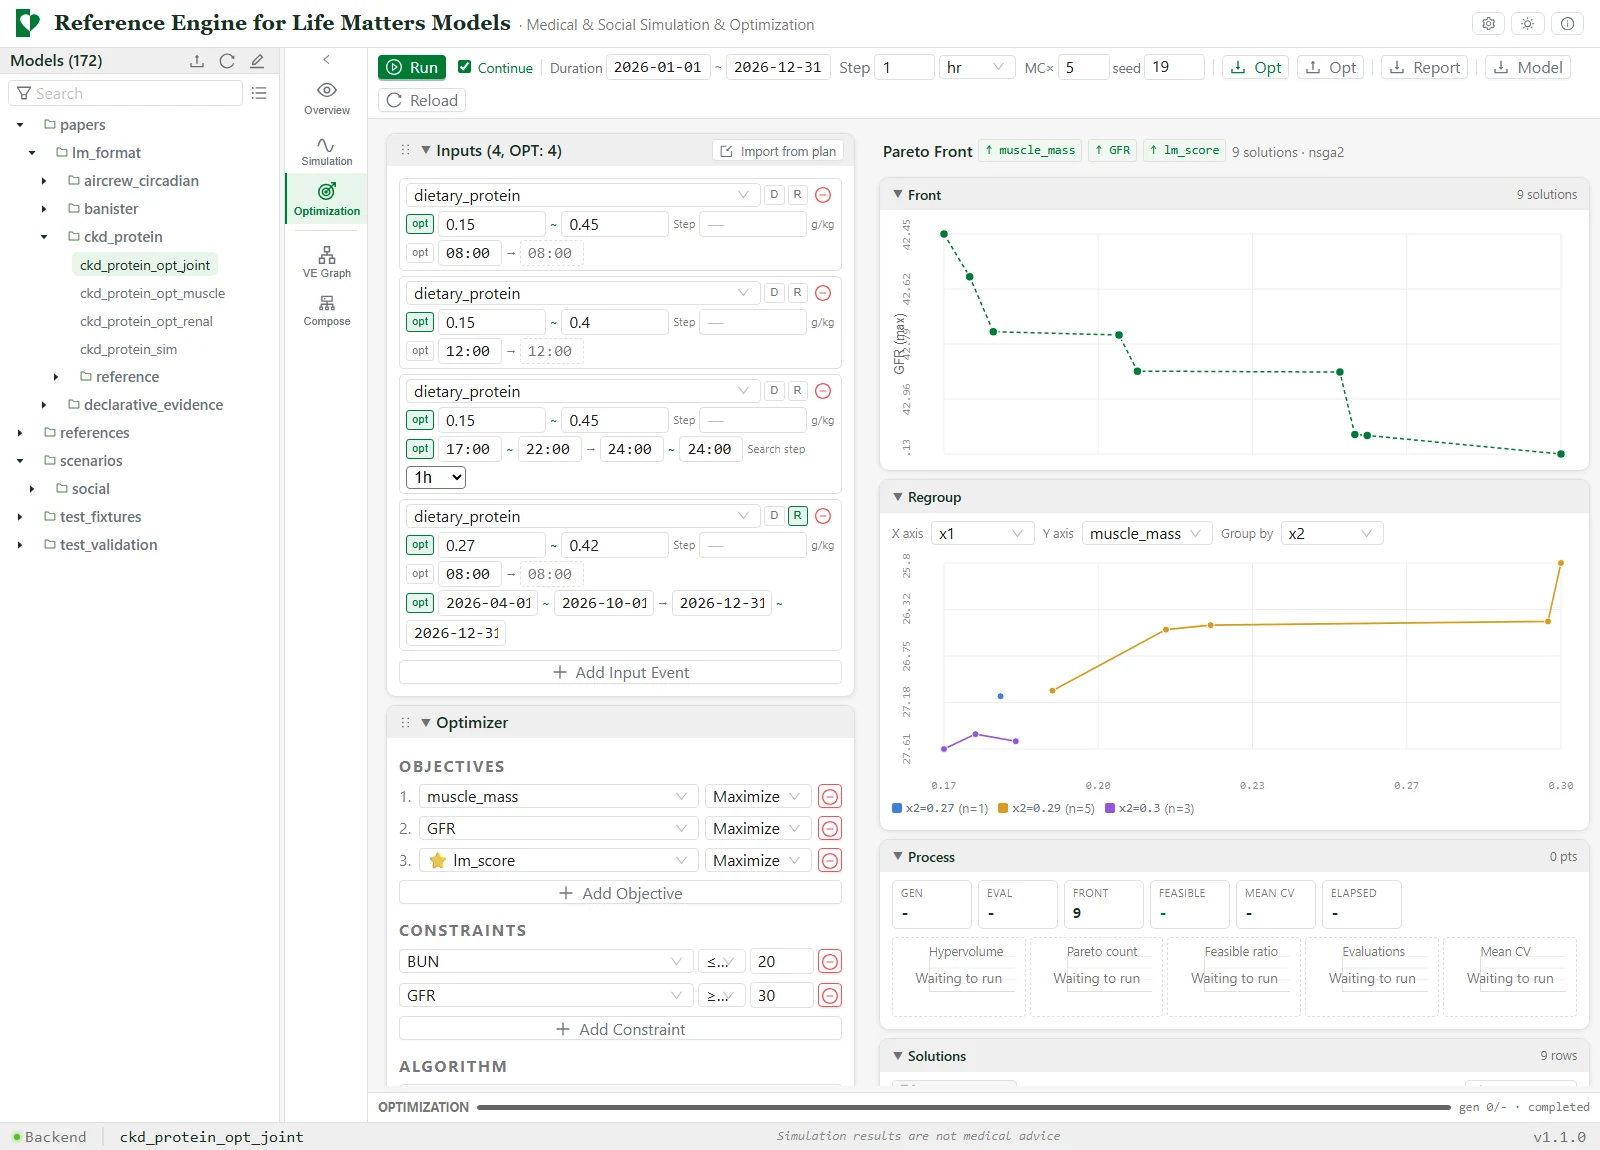
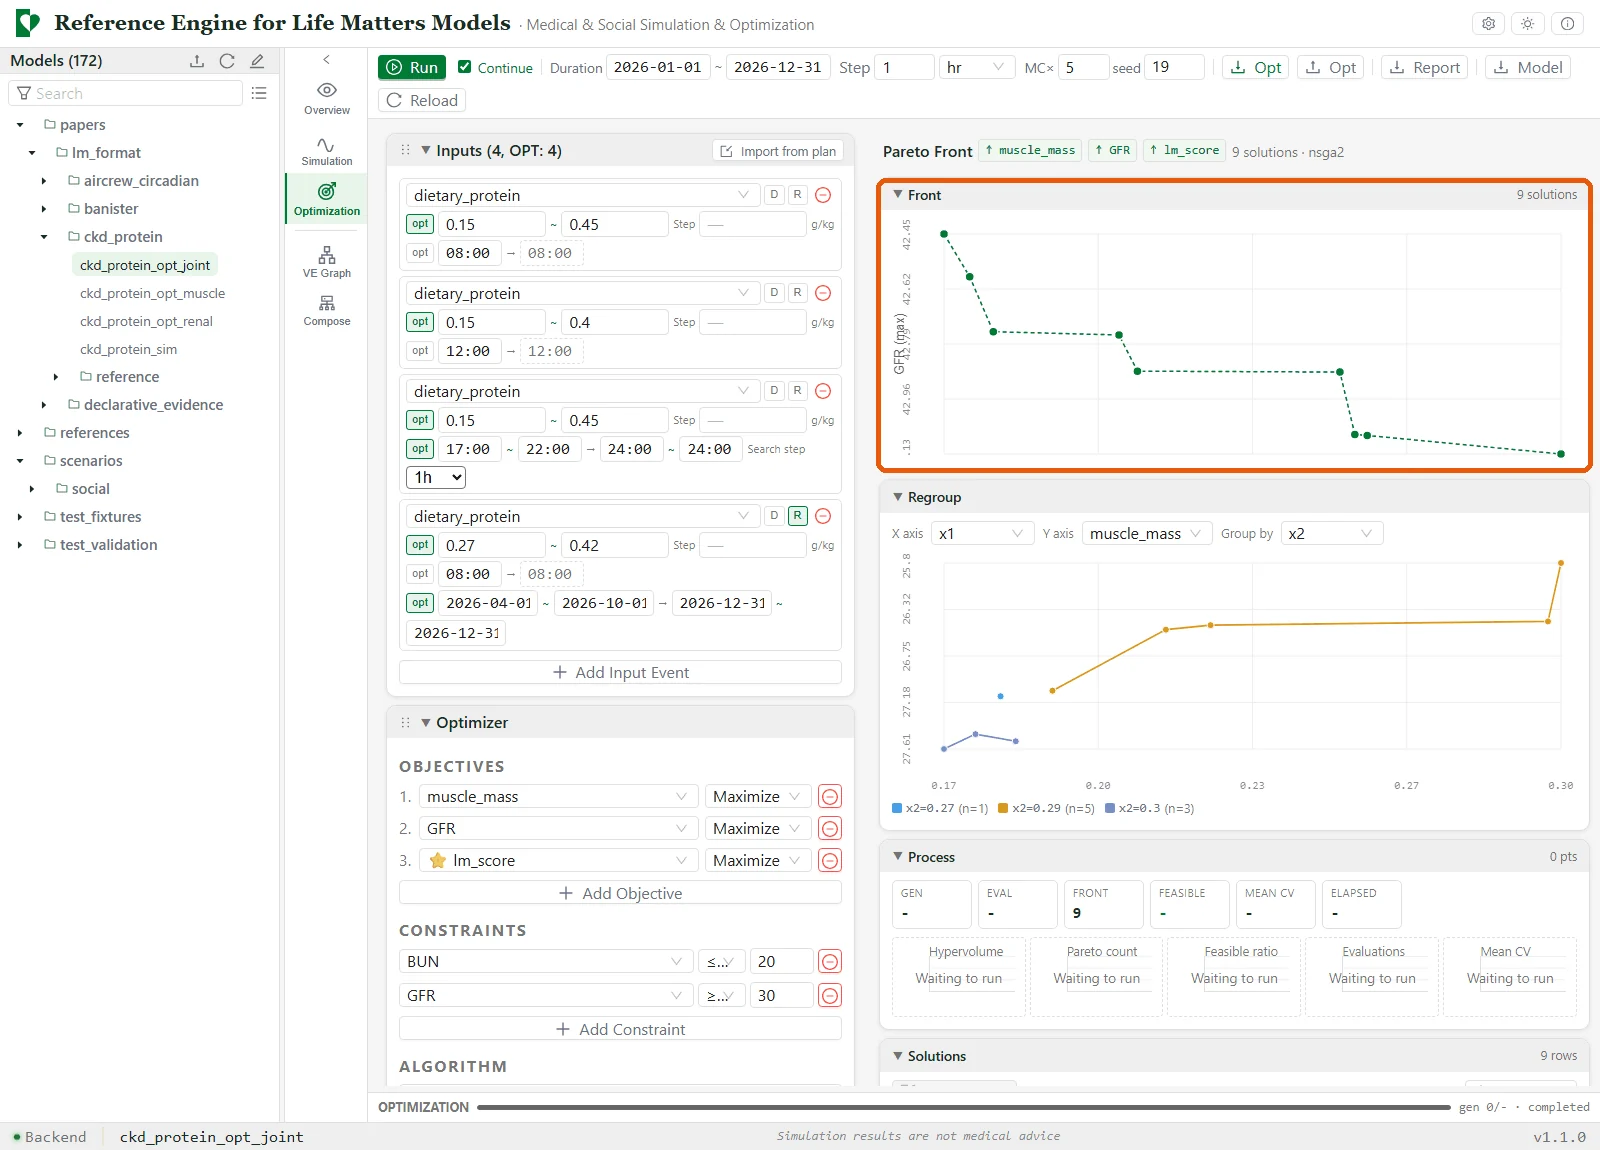
Life Matters page: captions say what a picture is for, overlapping pictures merged, key pictures boxed

Changed region(s): [[0.5312, 0.1522, 1.0, 0.4261]]

diff --git a/life-matters/index.html b/life-matters/index.html
@@ -88,13 +88,13 @@
   <a href="#example">An example</a>
   <a href="#read-run">Read and run</a>
   <a href="#optimize">Optimize</a>
-  <a href="#build">Build and compose</a>
+  <a href="#build">Find, build and compose</a>
   <a href="#motion">In motion</a>
   <a href="#together">How it fits together</a>
   <a href="#status">Status</a>
 </nav>
 
-<p>Published findings about health and behavior rarely become something that can be run, compared or combined. Life Matters (LM) is an attempt to change that. A model is a plain YAML file that states its variables, equations, a simulation setup and, optionally, an optimization problem, and each parameter records the study it came from, or is marked as lacking one. The Reference Engine runs the models, searches for good regimens across several objectives, and lets models from different fields work together in one simulation.</p>
+<p>Published findings about health and behavior rarely become something that can be run, compared or combined, and as they spread they tend to lose the dose, population and duration they were found under. Life Matters (LM) is an attempt to let findings travel together with the conditions under which they hold. A model is a plain YAML file that states its variables, equations, a simulation setup and, optionally, an optimization problem, and each parameter records the study it came from, or is marked as lacking one. The Reference Engine runs the models, searches for good regimens across several objectives, and lets models from different fields work together in one simulation. Every number traces to its source, so each step can be checked.</p>
 
 <p class="note">LM is an aid for analysis. It shows what a set of published findings implies and how they can be put to work together. It does not give medical advice. Review of the models is still limited in coverage, and the models shown here serve as demonstrations of the interface.</p>
 
@@ -105,64 +105,54 @@
 <h2 id="read-run">Read and run</h2>
 
 <figure>
-  <a href="img/overview.webp"><img src="img/overview.webp" alt="The model library on the left and the description page of a CKD model: problem, method, result and limitations." width="1600" height="900" loading="lazy"></a>
-  <figcaption><b>Read a model.</b> The library holds more than a hundred models across medicine, fitness, nutrition and psychology. A model page states the problem, the method, the result and the limitations, together with the review status of the model.</figcaption>
+  <a href="img/overview.webp"><img src="img/overview.webp" alt="The model library on the left and the description page of a CKD model: problem, method, result and limitations, with the review mark boxed." width="1600" height="900" loading="lazy"></a>
+  <figcaption><b>Read a model.</b> Each model is a runnable paper: the problem, the method, the result and the limits on one page, with how far it has been reviewed in plain view.</figcaption>
 </figure>
 
 <figure>
-  <a href="img/inside-model.webp"><img src="img/inside-model.webp" alt="The overview page of the CKD model with its variable table and equation table." width="1600" height="1330" loading="lazy"></a>
-  <figcaption><b>Look inside.</b> The variable table gives each variable a type, an initial value, a unit and a source, and the equation table gives each update as a plain expression with its source. Each parameter carries its source, or a TODO:SOURCE mark where it has none.</figcaption>
-</figure>
-
-<figure>
-  <a href="img/references.webp"><img src="img/references.webp" alt="The references section of the CKD model, each study beside a note on what it supports." width="1600" height="1100" loading="lazy"></a>
-  <figcaption><b>Every source is accounted for.</b> The references section lists each study beside a note on what it supports, which parameter it calibrates, and where the model does not follow it. A parameter with no source is marked TODO:SOURCE and not left blank, and a replaced citation keeps the reason for the change. This is what makes a model checkable by someone who knows the field.</figcaption>
+  <a href="img/references.webp"><img src="img/references.webp" alt="The references section of the CKD model, each study beside a note on what it supports, with two entries boxed." width="1600" height="1100" loading="lazy"></a>
+  <figcaption><b>Every number can be checked.</b> Each parameter points to the study it came from, and where there is none it is marked, not left blank. A reader who knows the field can check the model without guessing.</figcaption>
 </figure>
 
 <figure>
   <a href="img/simulation.webp"><img src="img/simulation.webp" alt="Three training plans compared on fitness, fatigue and performance curves." width="1600" height="900" loading="lazy"></a>
-  <figcaption><b>Run a plan.</b> Inputs are scheduled in time, several plans run side by side, and Monte Carlo repeats give a sense of uncertainty. Here a fitness and fatigue model compares a baseline plan, a maintenance plan and a high load plan with no rest day.</figcaption>
+  <figcaption><b>See the consequences.</b> A plan becomes a curve over time, with several plans side by side and the uncertainty shown, so a finding stated as an effect size turns into something you can look at.</figcaption>
 </figure>
 
 <h2 id="optimize">Optimize</h2>
 
-<p>This is the core of the engine. A model can carry an optimization problem next to its simulation: which inputs may be adjusted and within what range, which outcomes to pursue, and which limits must hold. The engine searches for regimens that balance the objectives and returns the whole set of trade-offs.</p>
+<p>Most hard choices in life are not a search for one best answer but several goals pulling against each other. LM writes the pull as a structure that runs, shows what it costs to favor one goal over another, and leaves the order to the person who chooses.</p>
 
 <figure>
-  <a href="img/optimization-setup.webp"><img src="img/optimization-setup.webp" alt="The optimizer setup of the CKD model: decision variables with ranges, three objectives, two constraints and the Pareto front." width="1600" height="1150" loading="lazy"></a>
-  <figcaption><b>State the problem.</b> The CKD model searches the protein intake of each meal within a range, pursues muscle mass, kidney function and a composite score together, and holds blood urea nitrogen and kidney function within limits.</figcaption>
-</figure>
-
-<figure>
-  <a href="img/optimization.webp"><img src="img/optimization.webp" alt="A Pareto front over kidney function and muscle mass for the CKD model." width="1600" height="900" loading="lazy"></a>
-  <figcaption><b>See the trade-off.</b> With several objectives, the result is a Pareto front rather than a single answer. Each point is a regimen that can be inspected and sent back to the simulation, and the regrouping panel changes the axes and the grouping to show how one decision variable shifts the balance.</figcaption>
+  <a href="img/optimization-setup.webp"><img src="img/optimization-setup.webp" alt="The optimizer setup of the CKD model, with the Pareto front boxed." width="1600" height="1150" loading="lazy"></a>
+  <figcaption><b>State the problem, see the trade-off.</b> What can be adjusted, what to pursue and which limits must hold go in, and a whole front of trade-offs comes out rather than a single answer. In the CKD model, protein intake pulls kidney function and muscle mass in different directions.</figcaption>
 </figure>
 
 <figure>
   <a href="img/optimization-plans.webp"><img src="img/optimization-plans.webp" alt="Six plans of the CKD model compared on kidney function, muscle mass and blood urea nitrogen." width="1600" height="1150" loading="lazy"></a>
-  <figcaption><b>Compare with clinical practice.</b> Plans taken from the front go back into the full model, run for a year in hourly steps, and appear next to clinical-style plans. Here three clinical plans are compared with three optimized ones, and the thin lines are Monte Carlo repeats.</figcaption>
+  <figcaption><b>Compare with clinical practice.</b> Plans from the front run beside clinical-style plans on the same curves, so a discussion has a shared picture.</figcaption>
 </figure>
 
-<h2 id="build">Build, inspect and compose</h2>
+<h2 id="build">Find, build and compose</h2>
 
 <figure>
-  <a href="img/builder.webp"><img src="img/builder.webp" alt="The model library editor with the variables of the CKD model." width="1600" height="900" loading="lazy"></a>
-  <figcaption><b>Build a model.</b> The editor shows a model in sections, with its variables, equations and simulation settings, and can validate the file. The online demo is read only, and editing is available in the local version.</figcaption>
-</figure>
-
-<figure>
-  <a href="img/ve-graph.webp"><img src="img/ve-graph.webp" alt="A graph of the variables and equations of the CKD model." width="1600" height="900" loading="lazy"></a>
-  <figcaption><b>See the structure.</b> Variables are circles and equations are squares. An arrow runs from each input to the equation that reads it and from the equation to the variable it updates. Nodes can be dragged and the layout can be switched to a layered view. In the CKD model, four mechanisms share one set of decision variables.</figcaption>
+  <a href="img/body-map.webp"><img src="img/body-map.webp" alt="A paper-doll body with the organs and everyday inputs that twelve ticked models act on, and the model tree filtered to them." width="1600" height="900" loading="lazy"></a>
+  <figcaption><b>Find what is there.</b> Start from an organ or a part of everyday life and see which models in the library point to it. It answers what the library holds, not what the outcome would be.</figcaption>
 </figure>
 
 <figure>
-  <a href="img/compose-coupling.webp"><img src="img/compose-coupling.webp" alt="Three models joined through the variables they share." width="1600" height="900" loading="lazy"></a>
-  <figcaption><b>Compose models.</b> Tick models in the library and the variables they share join them. An arrow from a model to a variable means the model writes it, and an arrow the other way means it reads it. This says which models can be connected, not what the combined model predicts.</figcaption>
+  <a href="img/builder.webp"><img src="img/builder.webp" alt="The model library editor with three models side by side." width="1600" height="900" loading="lazy"></a>
+  <figcaption><b>Read and edit a model.</b> Every part of a model is laid out in plain sections, with several models side by side. The online demo is read only, and editing is available in the local version.</figcaption>
+</figure>
+
+<figure>
+  <a href="img/ve-pair.webp"><img src="img/ve-pair.webp" alt="The variables and equations of one model as a graph, and of three models together with shared variables marked by dashed rings." width="1824" height="646" loading="lazy"></a>
+  <figcaption><b>See the structure.</b> Variables and equations are laid out as a graph that shows what depends on what. Across several models a shared variable becomes one node, which shows where they meet.</figcaption>
 </figure>
 
 <figure>
   <a href="img/compose-conflict.webp"><img src="img/compose-conflict.webp" alt="Three sports models that write the same variables, flagged in red." width="1600" height="900" loading="lazy"></a>
-  <figcaption><b>Check before merging.</b> A variable written by more than one model is flagged in red, because a merge would update it more than once per step. Differences in units, types and values are listed too, and one button merges the ticked models into a new model file after showing what the merge will do.</figcaption>
+  <figcaption><b>Check before joining models.</b> Models that share variables can be joined, and a clash, such as two models updating the same variable, is flagged before a merge. This says which models can connect, not what the combination predicts.</figcaption>
 </figure>
 
 <h2 id="motion">In motion</h2>
@@ -171,20 +161,20 @@
   <video controls muted loop playsinline preload="metadata" poster="video/compose.jpg" width="1280" height="720" data-autoplay>
     <source src="video/compose.webm" type="video/webm">
   </video>
-  <figcaption><b>Composing models.</b> Choose a ready-made combination from the sample list, drag a node, then switch to a combination where models write the same variables and open the merge dialog.</figcaption>
+  <figcaption><b>Composing models.</b> A ready-made combination first, then one where models write the same variables.</figcaption>
 </figure>
 
 <figure>
   <video controls muted loop playsinline preload="metadata" poster="video/ve-graph.jpg" width="1280" height="720" data-autoplay>
     <source src="video/ve-graph.webm" type="video/webm">
   </video>
-  <figcaption><b>The structure graph.</b> The CKD model, with nodes dragged around and the layout switched between the dynamic and the layered view.</figcaption>
+  <figcaption><b>The structure graph.</b> Nodes dragged around, and the layout switched between two views.</figcaption>
 </figure>
 
 <h2 id="together">How it fits together</h2>
 <ul>
   <li><a href="https://github.com/shenfan19/life-matters-models">Model library</a>. YAML models, licensed CC BY 4.0, each with literature references, a review status and ratings.</li>
-  <li><a href="https://github.com/shenfan19/life-matters-reference-engine">Reference Engine</a>. A Python backend with a React interface and a command line, for simulation, optimization and model composition. The interface is extended through plugins, and the structure and composition views above are plugins. An online demo is linked from the README of the repository.</li>
+  <li><a href="https://github.com/shenfan19/life-matters-reference-engine">Reference Engine</a>. A Python backend with a React interface and a command line, for simulation, optimization and model composition. The interface is extended through plugins, and the structure graph, the Body Map and the composition view above are plugins. Every model and every tab has its own link, and a button in the toolbar copies it, so a discussion can point at the same place. An online demo is linked from the README of the repository.</li>
 </ul>
 
 <h2 id="status">Status</h2>
@@ -193,7 +183,7 @@
 
 <p>The code of the Reference Engine was written with AI coding assistance for code generation, automated testing and documentation. Citation details are in <a href="https://github.com/shenfan19/life-matters-reference-engine/blob/main/CITATION.cff">CITATION.cff</a>.</p>
 
-<footer>Last updated 2026-10-13</footer>
+<footer>Last updated 2026-10-19</footer>
 
 </main>
 <script>
